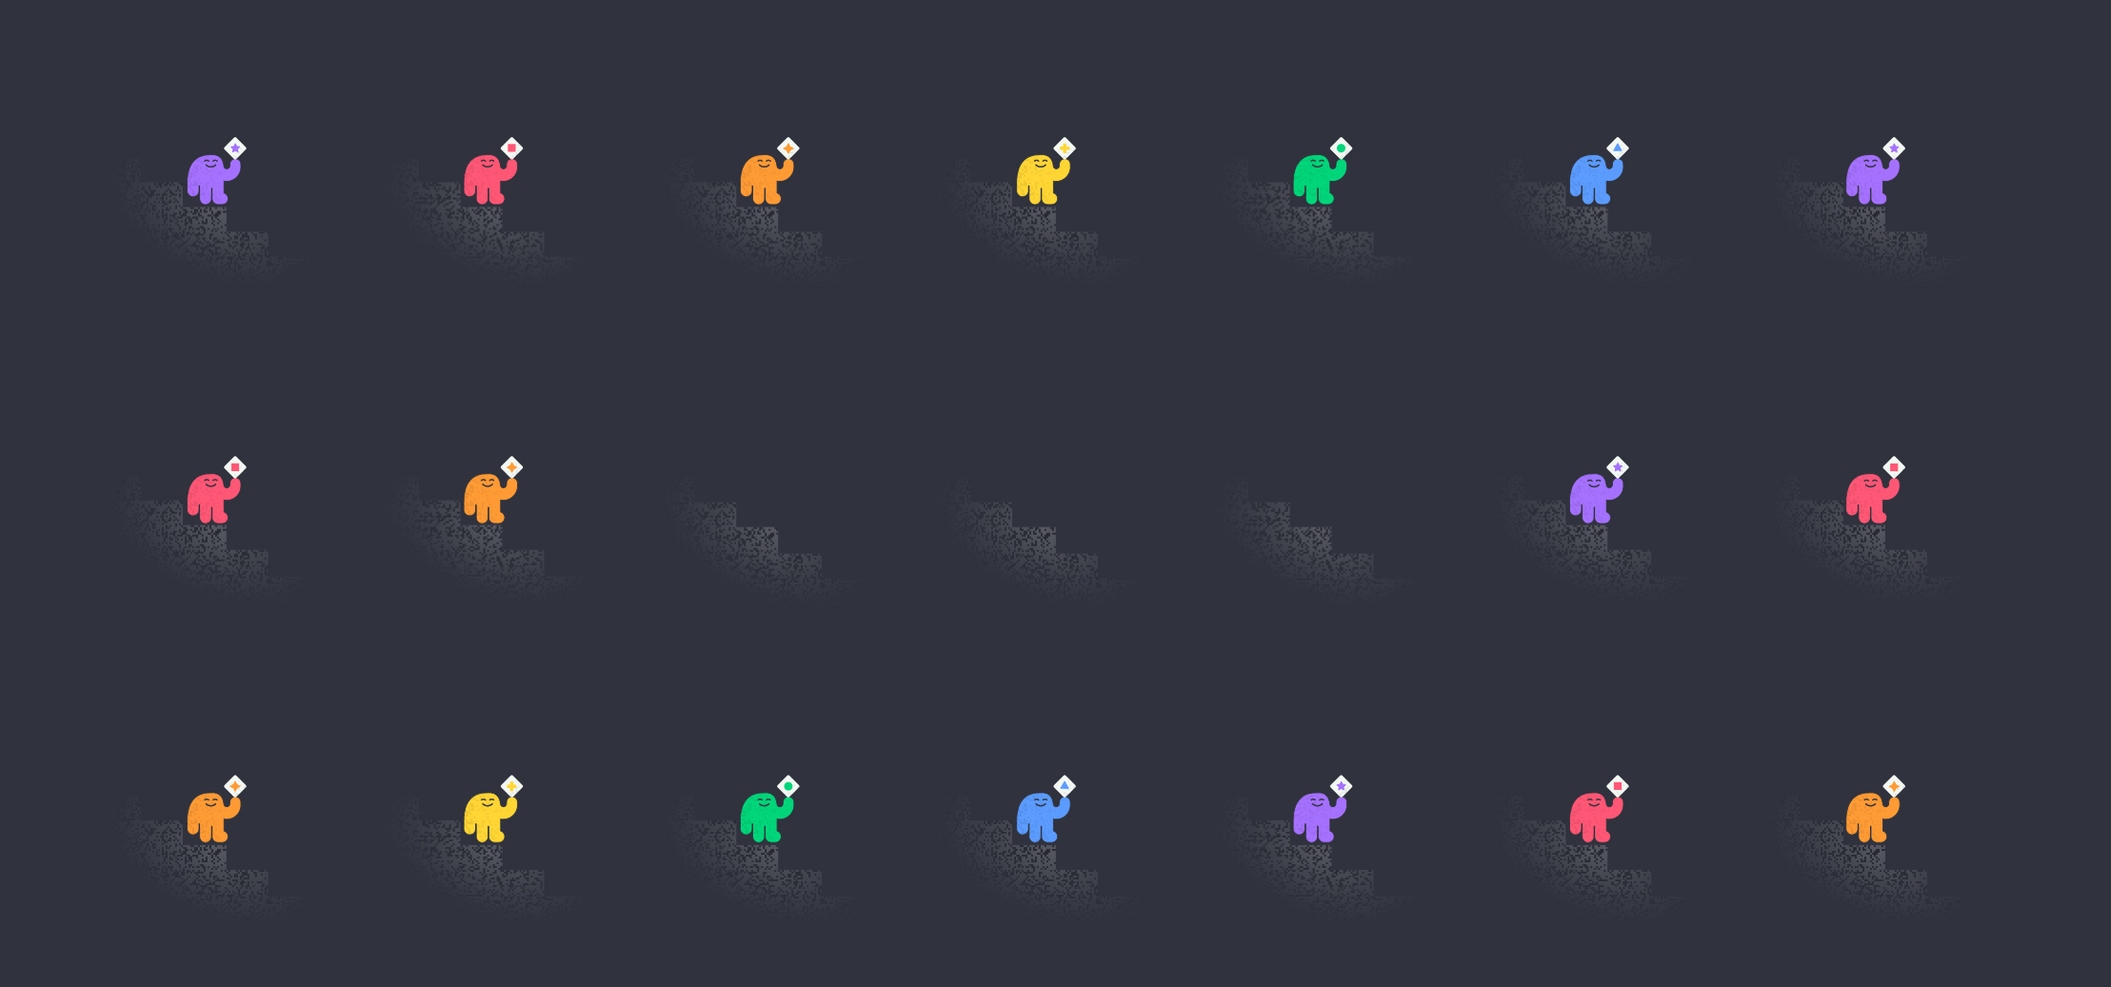
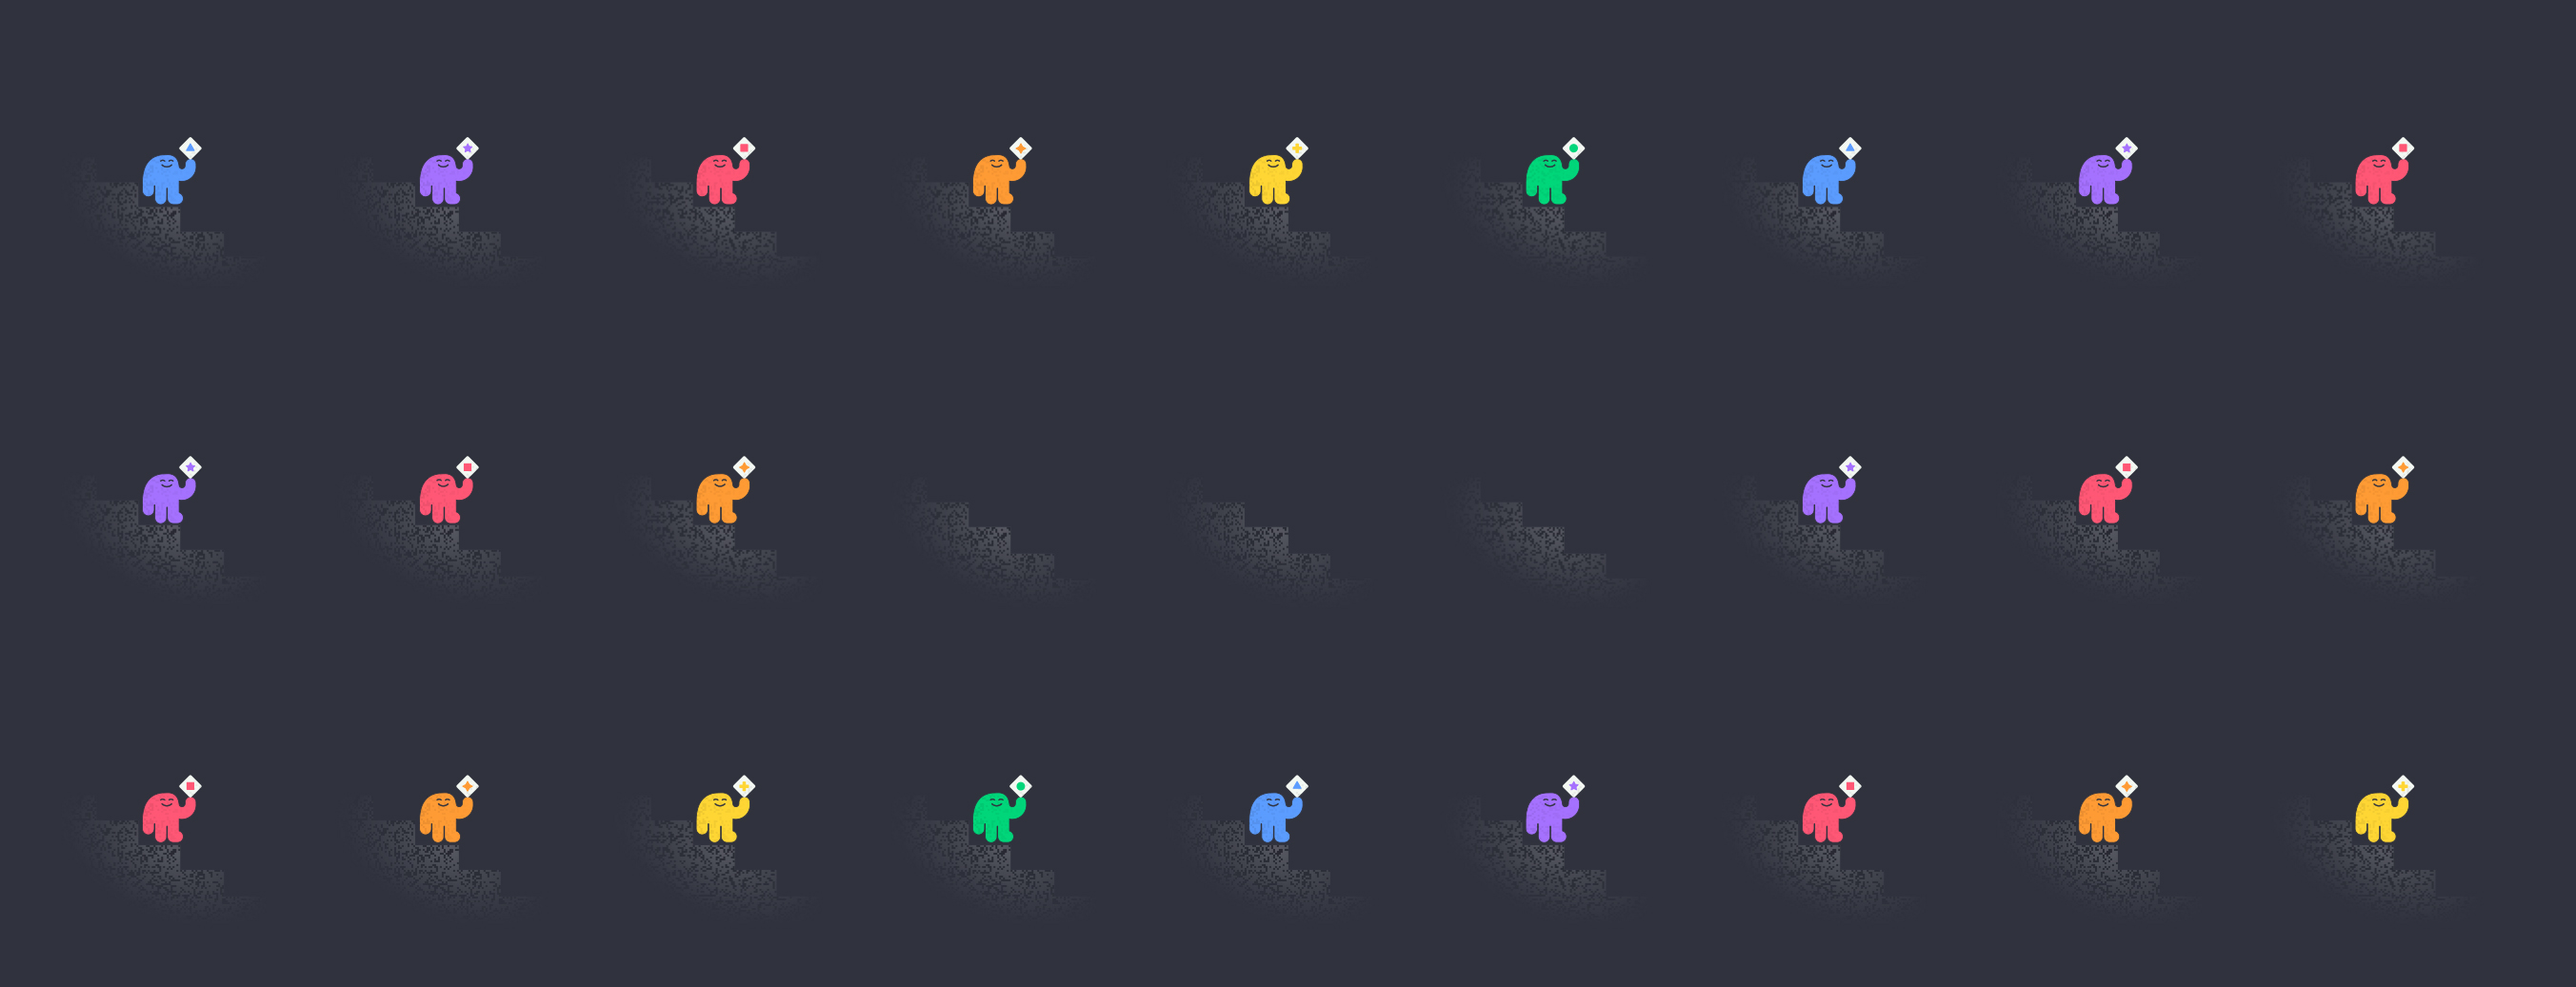
rebrand images

diff --git a/css/responsive.css b/css/responsive.css
@@ -15,7 +15,7 @@
 @media (max-width:1366px) {
 	
 		section.decent {
-		background: url(../img/mobile-bg-01.jpg) repeat #30323d;
+		background: url(../img/h-bg.jpg) repeat #30323d;
 		background-position:center;
 		background-size: 100%;
 		padding: 120px 10px;
